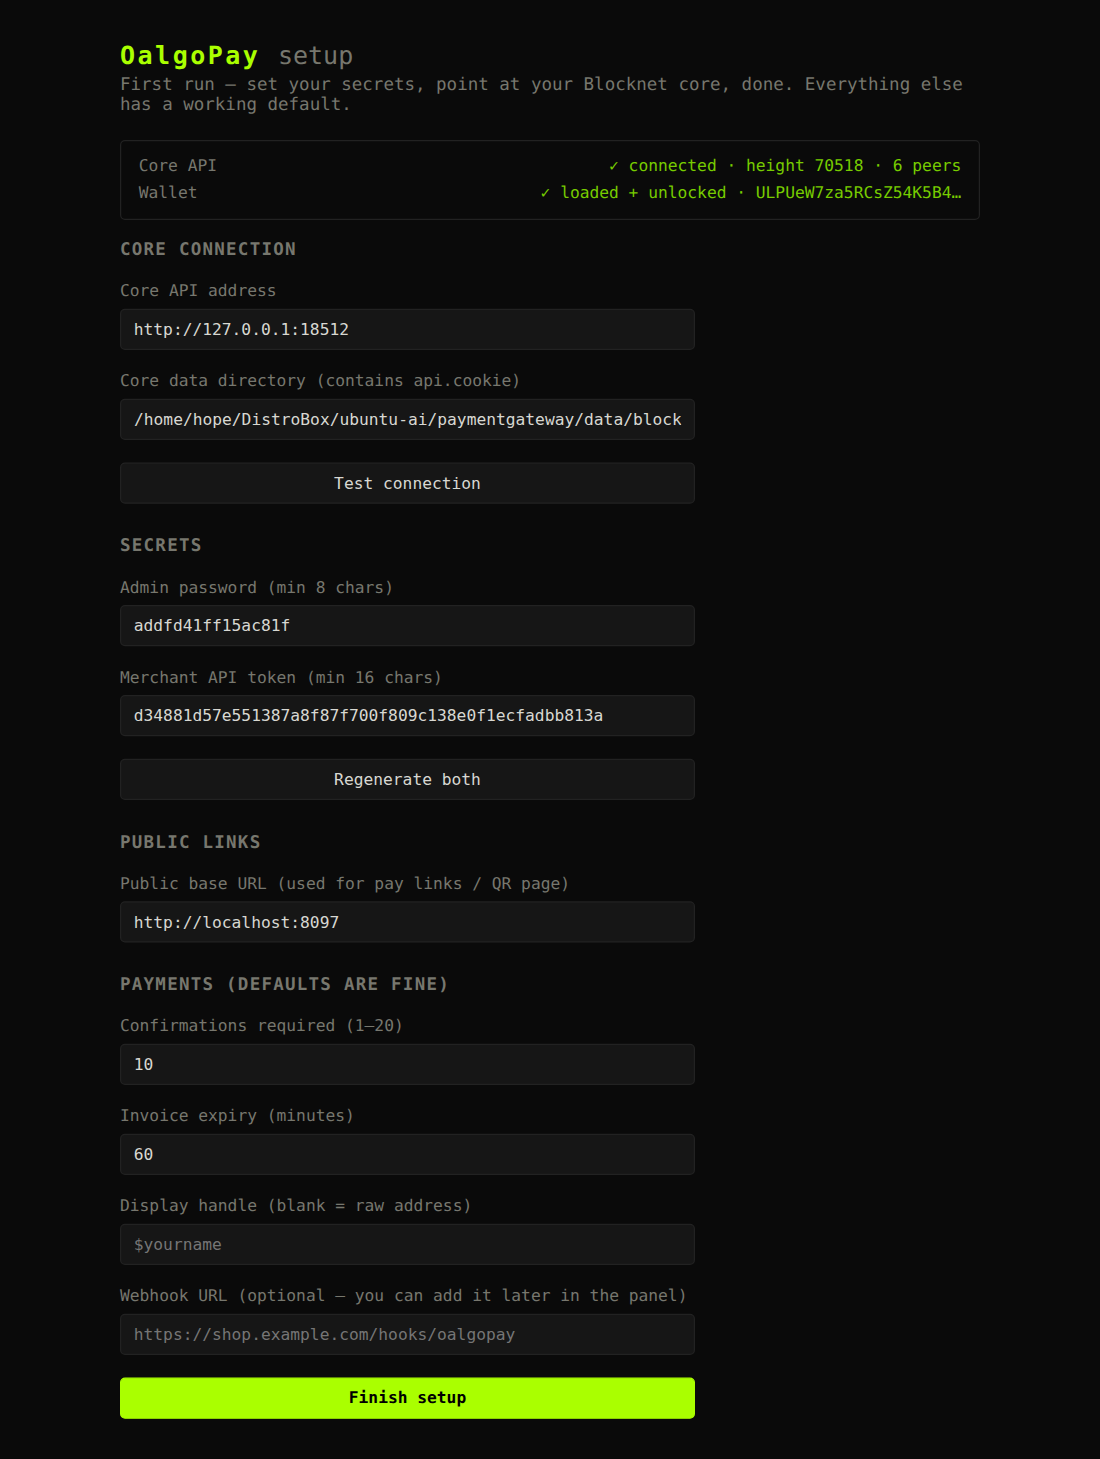
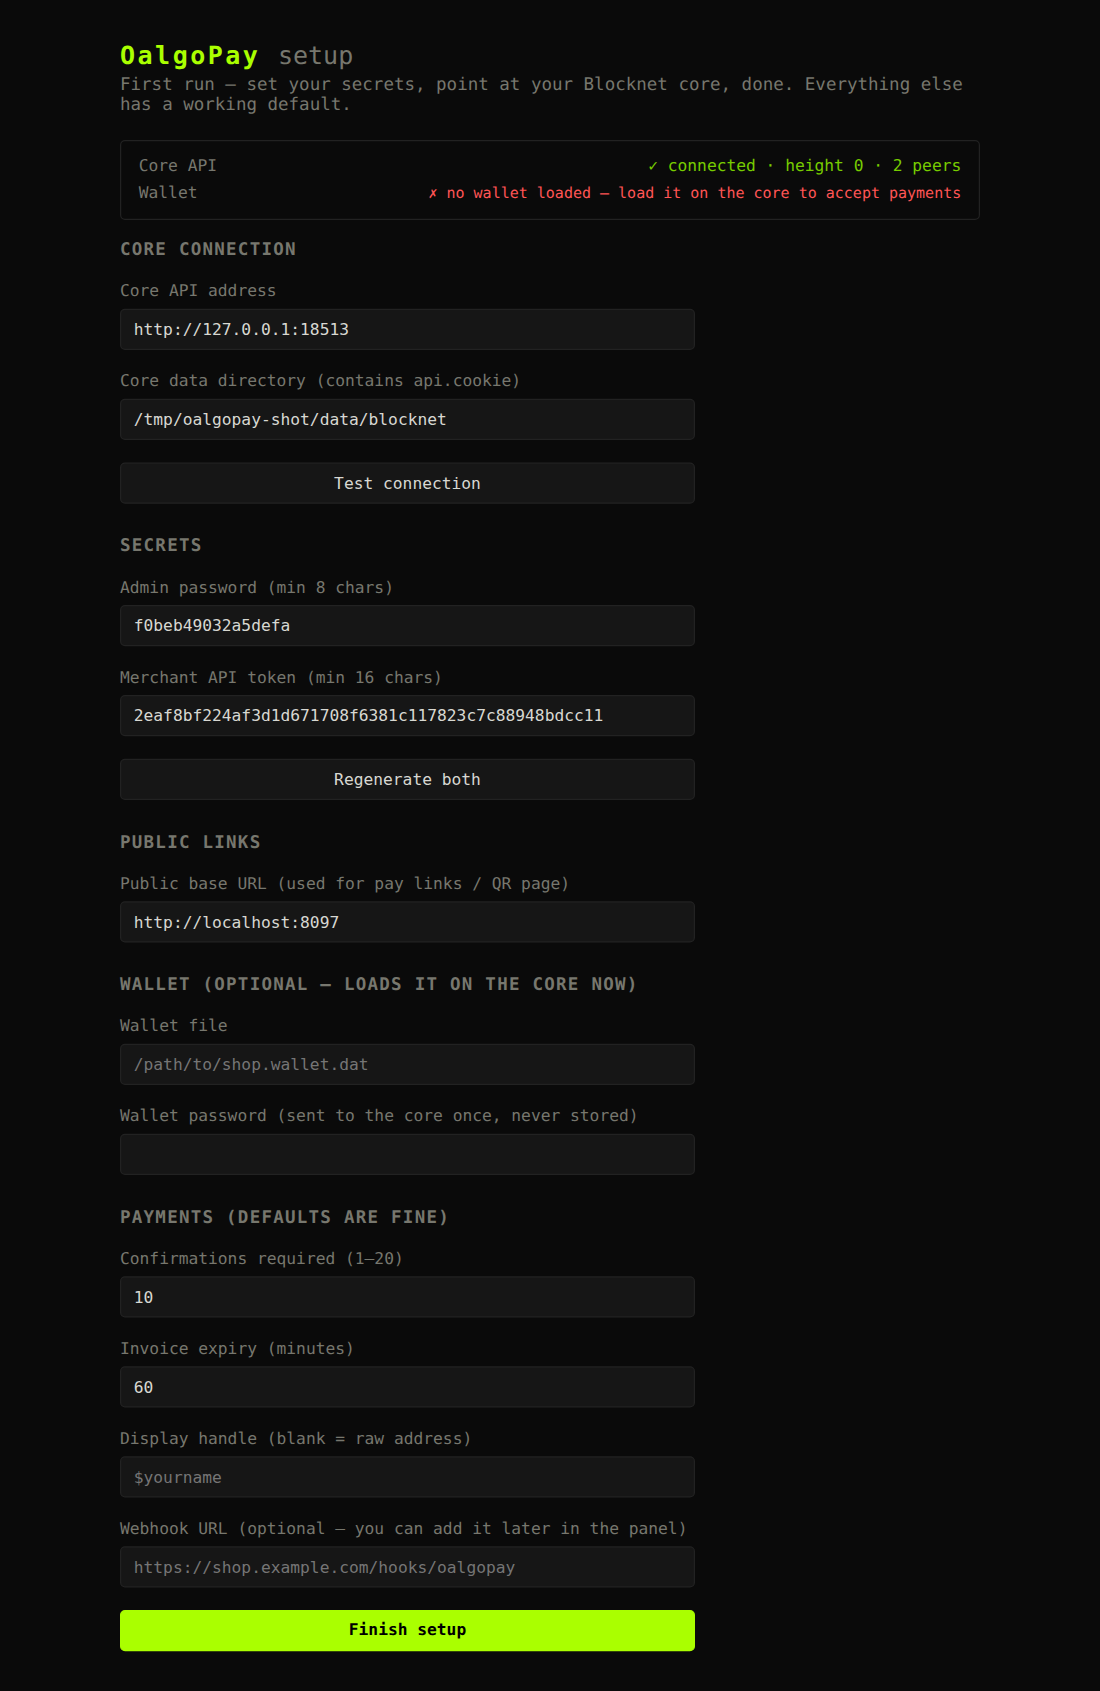
docs: refresh screenshots (wallet-aware wizard, wallet-load overview)

diff --git a/docs/DOCKER.md b/docs/DOCKER.md
@@ -27,14 +27,16 @@ Open **http://localhost:8096** — the wizard prefills `http://core:18512` and
 Container paths matter: the wallet lives at **`/wallets/<file>`** inside the
 core container — use that path in the wizard and the panel's Load-wallet form.
 
-Because the core resolves its `wallet_file` at startup, the **first** wallet
-load on a fresh volume needs one core restart:
-
 1. Wizard (or panel) → wallet path `/wallets/shop.wallet.dat` + password
 2. The gateway writes `wallet_file` into the core's settings and tells you a
    restart is needed
 3. `docker compose restart core`
 4. Admin panel → Overview → **Load wallet** → same path + password → done
+
+<p align="center">
+  <img src="img/admin-wallet-load.png" width="460" alt="Load wallet form on the admin Overview">
+</p>
+
 
 Later core restarts keep `wallet_file` configured, so loading works without
 the settings step.
